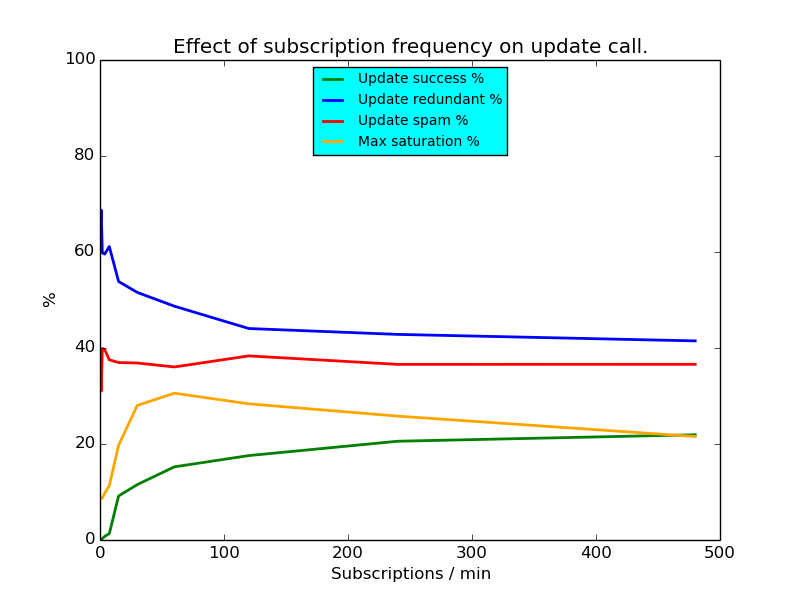
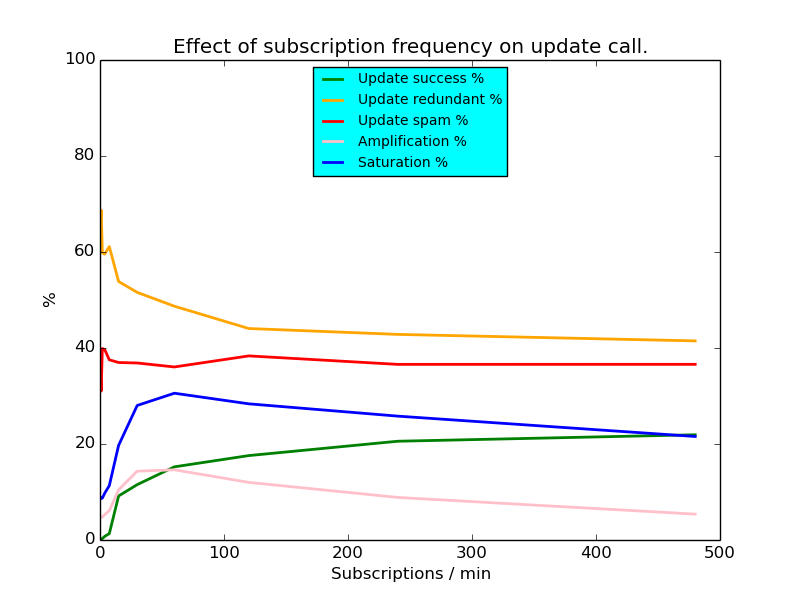
added amplification mesurement to graph

diff --git a/benchmark/filterupdates_sub_freq_plot.py b/benchmark/filterupdates_sub_freq_plot.py
@@ -47,15 +47,16 @@ for sample in samples:
     ksize = 20
     max_amp = ksize ** sample["quasar"]["constants"]["depth"]
     update_called = sample["quasar"]["update_called"]
-    amp = update_called / test_count
-    amp_percent = amp * 100 / max_amp
-    y_amp.append(50.0)  # FIXME
+    num_refreshes = time_total / sample["quasar"]["constants"]["refresh_time"]
+    # FIXME get num_refreshes as datapoint
+    swarm_size = sample["args"]["swarm_size"]
+    amp = update_called / (test_count + (num_refreshes * swarm_size))
+    amp_percent = amp * 100.0 / max_amp
+    y_amp.append(amp_percent)  # FIXME
 
     # get saturation percent
-    num_refreshes = time_total / sample["quasar"]["constants"]["refresh_time"]
     extra_propagations = sample["quasar"]["constants"]["extra_propagations"]
     max_node_updates = num_refreshes * (extra_propagations + 1)
-    swarm_size = sample["args"]["swarm_size"]
     max_called = swarm_size * max_node_updates * ksize  # ~ 880000
     saturation_percent = update_called * 100 / max_called
     y_saturation.append(saturation_percent)
@@ -89,13 +90,13 @@ plot.axis([0, 500, 0, 100])
 lines = plot.plot(x_success, y_success, 'k', label='Update success %')
 plt.setp(lines, color='green', linewidth=2.0)
 lines = plot.plot(x_redundant, y_redundant, 'k', label='Update redundant %')
-plt.setp(lines, color='blue', linewidth=2.0)
+plt.setp(lines, color='orange', linewidth=2.0)
 lines = plot.plot(x_spam, y_spam, 'k', label='Update spam %')
 plt.setp(lines, color='red', linewidth=2.0)
-# lines = plot.plot(x_amp, y_amp, 'k', label='Max amplification %')
-# plt.setp(lines, color='r', linewidth=2.0)
-lines = plot.plot(x_saturation, y_saturation, 'k', label='Max saturation %')
-plt.setp(lines, color='orange', linewidth=2.0)
+lines = plot.plot(x_amp, y_amp, 'k', label='Amplification %')
+plt.setp(lines, color='pink', linewidth=2.0)
+lines = plot.plot(x_saturation, y_saturation, 'k', label='Saturation %')
+plt.setp(lines, color='blue', linewidth=2.0)
 
 
 # create legend

diff --git a/storjnet/quasar.py b/storjnet/quasar.py
@@ -113,6 +113,7 @@ class Quasar(object):
         # create home attenuated bloom filter from own subscriptions
         for subscription in self._subscriptions:
             self._filters[0].add(subscription)
+            # TODO break spect and add to all filters, prevent cascade?
 
         # join peer filters
         for peer in self._protocol.get_neighbors():

diff --git a/benchmark.md b/benchmark.md
@@ -43,10 +43,10 @@ Subscriptions are to random topics from random nodes.
 
     kademlia ksize = 20
     max amp = kademlia ksize ^ quasar depth = 400
-    amp = update called / test count
+    num refreshes = 600 / refresh time = 10
+    amp = update called / (test count + num refreshes * swarm size)
     amp % = amp * 100.0 / max amp
 
-    num refreshes = 600 / refresh time = 10
     max node updates = num refreshes * (extra propagations + 1)
     max update called = swarm size * max node updates * kademlia ksize = 880000
     saturation % = called * 100.0 / max update called
